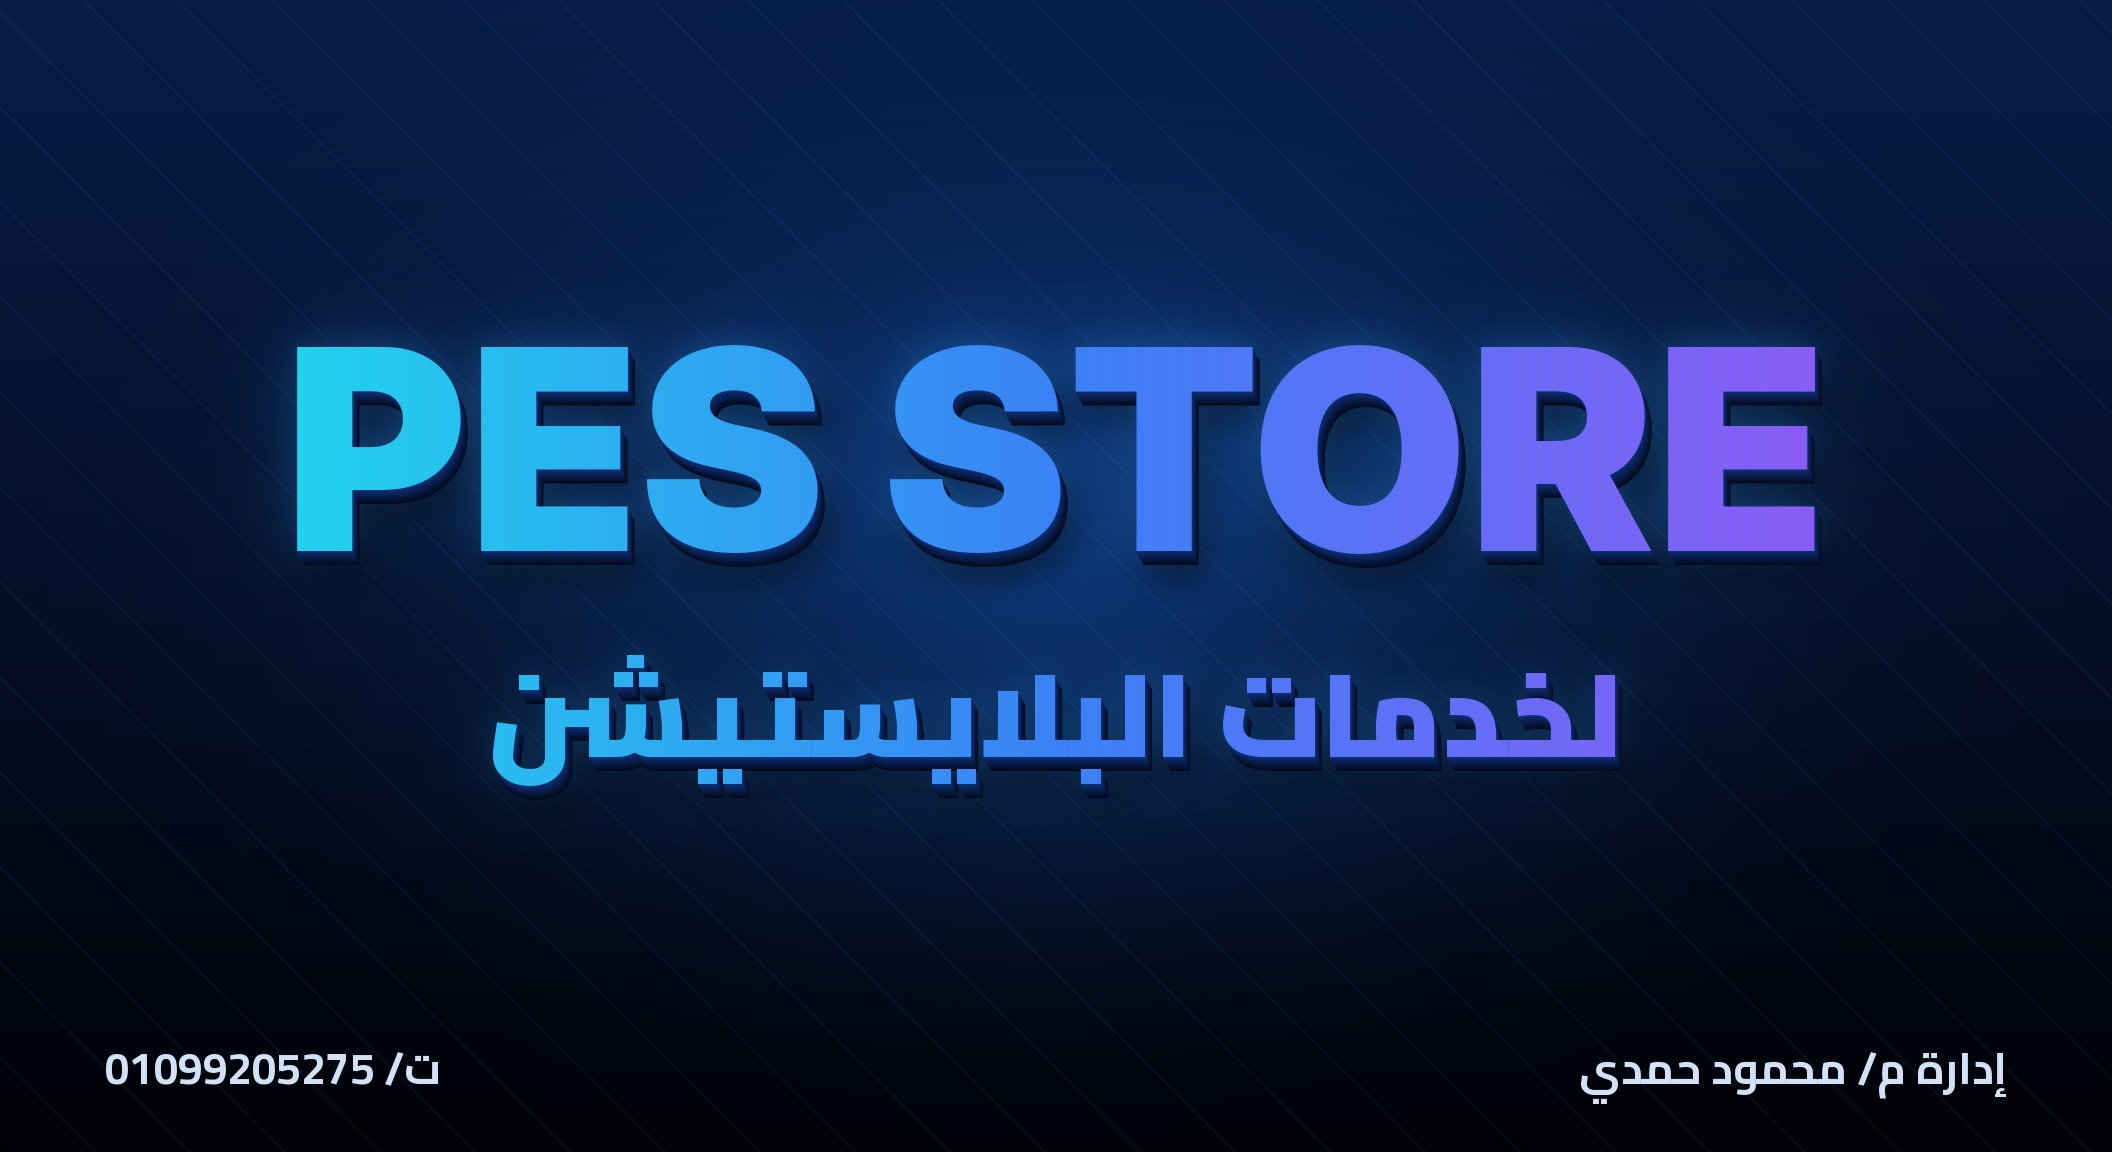
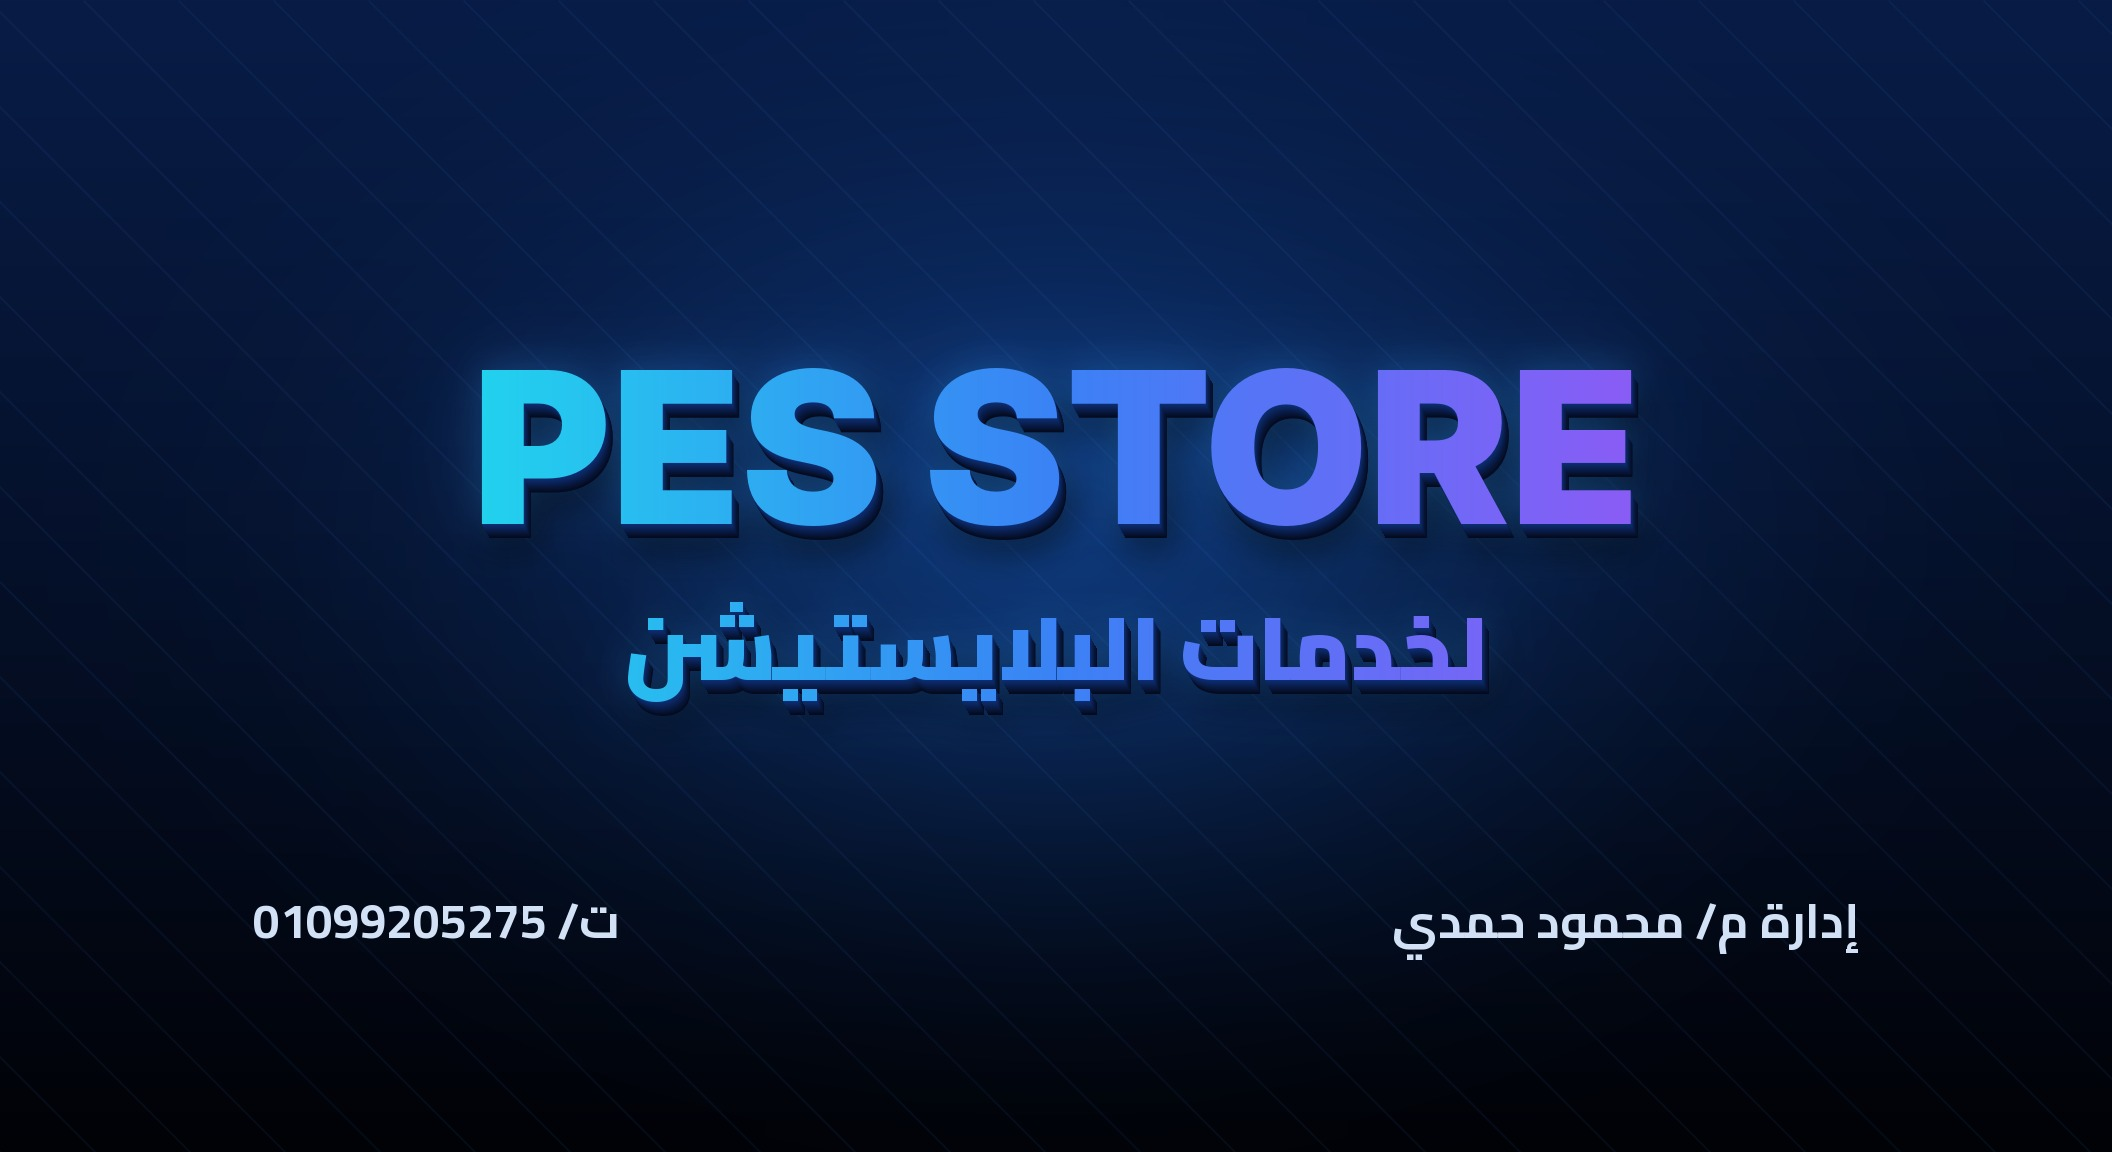
Shrink background text, widen margins, stronger neon pulse
- Background: smaller title, larger safe margins so nothing is cut off on PS4
- Headings: cyan to pink color pulse with stronger multi-layer glow and 3D depth
- Sub-headings: warm gold with 3D shadow

Claude-Session: https://claude.ai/code/session_01HnRBGbdLAa5aK9ZxUgKecW

diff --git a/style.css b/style.css
@@ -10,54 +10,65 @@ html {
     overflow: hidden;
 }
 H1 {
-    color: #e0f2ff !important;
+    color: #a5f3fc;
     font-size: 35px;
     position: relative;
     letter-spacing: 1px;
-    -webkit-animation: neonPulse 2.4s ease-in-out infinite;
-    animation: neonPulse 2.4s ease-in-out infinite;
+    -webkit-animation: neonPulse 2.2s ease-in-out infinite;
+    animation: neonPulse 2.2s ease-in-out infinite;
 }
 
 /* Sub-headings like "Select Your Firmware" / "Main Payloads" */
 H1[style*="font-size: 18px"],
 H1[style*="font-size:18px"] {
-    color: #67e8f9 !important;
+    color: #fde68a !important;
     letter-spacing: 2px;
+    -webkit-animation: none;
+    animation: none;
+    text-shadow: 1px 1px 0 #78350f, 2px 2px 0 #451a03, 0 0 10px rgba(251, 191, 36, 0.7);
 }
 
-/* 3D depth (stacked dark-blue layers) + glow that fades in and out */
+/* 3D depth + strong neon pulse (cyan -> pink/violet) */
 @-webkit-keyframes neonPulse {
     0%, 100% {
+        color: #a5f3fc;
         text-shadow:
-            1px 1px 0 #1e3a8a, 2px 2px 0 #1e3a8a, 3px 3px 0 #172554, 4px 4px 0 #0b1530,
-            5px 6px 8px rgba(0, 0, 0, 0.8),
-            0 0 4px rgba(34, 211, 238, 0.35),
-            0 0 10px rgba(59, 130, 246, 0.25);
+            1px 1px 0 #3b0764, 2px 2px 0 #2e1065, 3px 3px 0 #1e1b4b, 4px 4px 0 #0b1026,
+            5px 6px 8px rgba(0, 0, 0, 0.85),
+            0 0 4px rgba(34, 211, 238, 0.5),
+            0 0 10px rgba(34, 211, 238, 0.3);
     }
     50% {
+        color: #f5d0fe;
         text-shadow:
-            1px 1px 0 #1e3a8a, 2px 2px 0 #1e3a8a, 3px 3px 0 #172554, 4px 4px 0 #0b1530,
-            5px 6px 8px rgba(0, 0, 0, 0.8),
-            0 0 8px rgba(34, 211, 238, 0.9),
-            0 0 18px rgba(59, 130, 246, 0.75),
-            0 0 32px rgba(139, 92, 246, 0.55);
+            1px 1px 0 #3b0764, 2px 2px 0 #2e1065, 3px 3px 0 #1e1b4b, 4px 4px 0 #0b1026,
+            5px 6px 8px rgba(0, 0, 0, 0.85),
+            0 0 6px #ffffff,
+            0 0 14px #e879f9,
+            0 0 28px #d946ef,
+            0 0 46px #a855f7,
+            0 0 70px #6366f1;
     }
 }
 @keyframes neonPulse {
     0%, 100% {
+        color: #a5f3fc;
         text-shadow:
-            1px 1px 0 #1e3a8a, 2px 2px 0 #1e3a8a, 3px 3px 0 #172554, 4px 4px 0 #0b1530,
-            5px 6px 8px rgba(0, 0, 0, 0.8),
-            0 0 4px rgba(34, 211, 238, 0.35),
-            0 0 10px rgba(59, 130, 246, 0.25);
+            1px 1px 0 #3b0764, 2px 2px 0 #2e1065, 3px 3px 0 #1e1b4b, 4px 4px 0 #0b1026,
+            5px 6px 8px rgba(0, 0, 0, 0.85),
+            0 0 4px rgba(34, 211, 238, 0.5),
+            0 0 10px rgba(34, 211, 238, 0.3);
     }
     50% {
+        color: #f5d0fe;
         text-shadow:
-            1px 1px 0 #1e3a8a, 2px 2px 0 #1e3a8a, 3px 3px 0 #172554, 4px 4px 0 #0b1530,
-            5px 6px 8px rgba(0, 0, 0, 0.8),
-            0 0 8px rgba(34, 211, 238, 0.9),
-            0 0 18px rgba(59, 130, 246, 0.75),
-            0 0 32px rgba(139, 92, 246, 0.55);
+            1px 1px 0 #3b0764, 2px 2px 0 #2e1065, 3px 3px 0 #1e1b4b, 4px 4px 0 #0b1026,
+            5px 6px 8px rgba(0, 0, 0, 0.85),
+            0 0 6px #ffffff,
+            0 0 14px #e879f9,
+            0 0 28px #d946ef,
+            0 0 46px #a855f7,
+            0 0 70px #6366f1;
     }
 }
 
